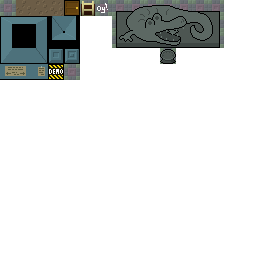
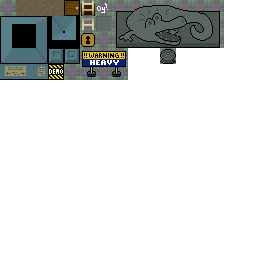
season blocks puzzle

Changed region(s): [[0.3125, 0.0625, 0.5, 0.3125]]

diff --git a/src/game/sprite/sprite_seasonblocks.c b/src/game/sprite/sprite_seasonblocks.c
@@ -1,0 +1,149 @@
+/* sprite_seasonblocks.c
+ * We're not a visible sprite; just controller for the 4 season blocks that we spawn.
+ */
+ 
+#include "game/bellacopia.h"
+
+#define ROLE_HINT 1
+#define ROLE_PUZZLE 2
+
+struct sprite_seasonblocks {
+  struct sprite hdr;
+  int role;
+  int seed; // Not really a seed; it's the actual placement of the 4 blocks.
+  int solution[9]; // LRTB, sprite rid or zero.
+  int col,row; // Position of the solution field's top left corner in plane meters. I start in the center, so this is (-1,-1) from me.
+  int solved;
+};
+
+#define SPRITE ((struct sprite_seasonblocks*)sprite)
+
+/* Cleanup.
+ */
+ 
+static void _seasonblocks_del(struct sprite *sprite) {
+}
+
+/* Spawn a block.
+ */
+ 
+static int seasonblocks_spawn(struct sprite *sprite,int subx,int suby,int rid) {
+  struct sprite *block=sprite_spawn(SPRITE->col+subx+0.5,SPRITE->row+suby+0.5,rid,0,0,0,0,0);
+  if (!block) return -1;
+  return 0;
+}
+
+/* Init.
+ */
+ 
+static int _seasonblocks_init(struct sprite *sprite) {
+  SPRITE->role=sprite->arg[0];
+  SPRITE->col=(int)sprite->x-1;
+  SPRITE->row=(int)sprite->y-1;
+  SPRITE->solved=store_get_fld(NS_fld_seasonblocks);
+  
+  /* Regardless of our role, if the puzzle isn't initialized, do that now.
+   */
+  SPRITE->seed=store_get_fld16(NS_fld16_seasonblocks_seed);
+  if (!SPRITE->seed) {
+    int range=9*8*7*6;
+    SPRITE->seed=1+rand()%range;
+    store_set_fld16(NS_fld16_seasonblocks_seed,SPRITE->seed);
+  }
+  
+  /* Expand the seed into a more digestible solution.
+   */
+  int n=SPRITE->seed-1;
+  uint8_t available[9]={0,1,2,3,4,5,6,7,8};
+  int availablec=9;
+  #define NEXT(rid) { \
+    int avp=n%availablec; \
+    n/=availablec; \
+    SPRITE->solution[available[avp]]=rid; \
+    availablec--; \
+    memmove(available+avp,available+avp+1,availablec-avp); \
+  }
+  NEXT(RID_sprite_season_winter)
+  NEXT(RID_sprite_season_spring)
+  NEXT(RID_sprite_season_summer)
+  NEXT(RID_sprite_season_autumn)
+  #undef NEXT
+  
+  /* If we're the hint, or the puzzle is already solved, spawn blocks in the solution positions.
+   */
+  if ((SPRITE->role==ROLE_HINT)||SPRITE->solved) {
+    const int *rid=SPRITE->solution;
+    int suby=0; for (;suby<3;suby++) {
+      int subx=0; for (;subx<3;subx++,rid++) {
+        if (!*rid) continue;
+        if (seasonblocks_spawn(sprite,subx,suby,*rid)<0) return -1;
+      }
+    }
+  /* Or if we're the unsolved puzzle, put the four blocks in constant OOB positions.
+   */
+  } else {
+    if (seasonblocks_spawn(sprite,-1,-1,RID_sprite_season_winter)<0) return -1;
+    if (seasonblocks_spawn(sprite, 3,-1,RID_sprite_season_spring)<0) return -1;
+    if (seasonblocks_spawn(sprite, 3, 3,RID_sprite_season_summer)<0) return -1;
+    if (seasonblocks_spawn(sprite,-1, 3,RID_sprite_season_autumn)<0) return -1;
+  }
+  
+  return 0;
+}
+
+/* Update.
+ */
+ 
+static void _seasonblocks_update(struct sprite *sprite,double elapsed) {
+  // Only need to update if we're the puzzle role and unsolved.
+  if (SPRITE->solved) return;
+  if (SPRITE->role!=ROLE_PUZZLE) return;
+  
+  // The blocks are all in "hookpull" group, which should be pretty light otherwise.
+  int matchc=0;
+  struct sprite **blockp=GRP(hookpull)->sprv;
+  int i=GRP(hookpull)->sprc;
+  for (;i-->0;blockp++) {
+    struct sprite *block=*blockp;
+    if (!block->rid) continue;
+    int qx=(int)block->x-SPRITE->col;
+    if ((qx<0)||(qx>=3)) continue; // continue, not break: We don't know yet whether this block is actually part of the puzzle.
+    int qy=(int)block->y-SPRITE->row;
+    if ((qy<0)||(qy>=3)) continue;
+    int sp=qy*3+qx;
+    if (SPRITE->solution[sp]==block->rid) {
+      matchc++;
+    } else {
+      // Something is in my bounds and it's not in the solution place. We're not solved.
+      matchc=0;
+      break;
+    }
+  }
+  
+  // If we got 4 matches, we're solved, hooray!
+  if (matchc==4) {
+    bm_sound(RID_sound_secret);
+    store_set_fld(NS_fld_seasonblocks,1);
+    g.camera.mapsdirty=1;
+    SPRITE->solved=1;
+    // They can keep moving blocks around after solving, no worries, it won't reset the solved state or anything.
+  }
+}
+
+/* Render.
+ */
+ 
+static void _seasonblocks_render(struct sprite *sprite,int x,int y) {
+}
+
+/* Type definition.
+ */
+ 
+const struct sprite_type sprite_type_seasonblocks={
+  .name="seasonblocks",
+  .objlen=sizeof(struct sprite_seasonblocks),
+  .del=_seasonblocks_del,
+  .init=_seasonblocks_init,
+  .update=_seasonblocks_update,
+  .render=_seasonblocks_render,
+};

diff --git a/src/game/shared_symbols.h b/src/game/shared_symbols.h
@@ -362,6 +362,7 @@
 #define NS_sprtype_treadlepass      48 /* (u16:fld)0 (u16:treadlec)6 */
 #define NS_sprtype_flamethrower     49 /* (u16:fld)0 (u8:offvalue_or_period_phase)0 (u8:length_and_orientation)0 ; low 2: 0..3=left,right,up,down. high 4: length-1 */
 #define NS_sprtype_trickfloor       50 /* (u32)0 */
+#define NS_sprtype_seasonblocks     51 /* (u8:role)1 (u24)0 ; 1=hint 2=puzzle */
 #define FOR_EACH_sprtype \
   _(dummy) \
   _(hero) \
@@ -402,7 +403,8 @@
   _(sokoban) \
   _(treadlepass) \
   _(flamethrower) \
-  _(trickfloor)
+  _(trickfloor) \
+  _(seasonblocks)
   
 #define NS_battle_fishing 1
 #define NS_battle_chopping 2
@@ -819,6 +821,7 @@
 #define NS_fld_dud6 235
 #define NS_fld_icedoor1 236
 #define NS_fld_escaped_labyrinth 237
+#define NS_fld_seasonblocks 238 /* Season blocks puzzle in the temple, completed. */
 
 /* "fld16" are 16 unsigned bits each.
  */
@@ -860,6 +863,7 @@
 #define NS_fld16_surveyor_b_guess 35
 #define NS_fld16_surveyor_c_guess 36
 #define NS_fld16_wishing_well 37 /* itemid */
+#define NS_fld16_seasonblocks_seed 38
 
 /* "clock" are floating-point seconds, and persist as integer ms.
  */

diff --git a/README.md b/README.md
@@ -33,36 +33,28 @@ Requires [Egg](https://github.com/aksommerville/egg2) to build.
 
 ## TODO
 
-- [x] Goblin cave isn't fully darkening anymore. ...I forgot to remove hero from `GRP(light)` when burning a flammable.
-- - That happened during a full run. Quit and retry, it darkens as expected.
-- - Use a match to burn something. It seems to stick on.
 - [ ] Gambling challenge in the casino. Choose a difficulty, implies a wager and payout, and play a random battle.
 - [ ] Maybe a warning when you leave a guild with the endorsement partially won? User wouldn't assume that it resets.
 - [ ] Might be cool to re-engage with the Princess after her quest.
 - - Definitely. Have three options: Take a walk, Play a game, or Gossip.
 - - Some subtle but noticeable indicator near her to show how many walks you've taken and games you've played. A prize when you've done them all.
-- [x] Modal blotter: Can we have the generic layer track changes and ease in and out? Then also we would want the implementations to turn off their (blotter) request during animated dismissal.
-- - ...this item has been sitting here for six months and I haven't once felt the need for it. Forget it.
 - [ ] Make something happen if you beat a guild outside the election.
 - [ ] More spells. Not sure what...
 - [ ] The Toad and the Boulder. I kind of forgot about this and its Root Devil is just sitting there in the open.
 - [ ] Game over song.
-- [x] New song during the election, maybe?
-- - ...this would be difficult, since we wouldn't want it to play outside Fractia. I don't think it's worth the trouble.
 - [ ] Add Blackjack and maybe Poker at the Casino. We already have lovely playing card graphics.
 - [ ] When the war is over, rsprites there should settle down. You can still engage, but maybe they just sit still in fixed positions? Like a zoo but fit for men.
 - [ ] Consider eliminating rsprite by zoos a la carte, one monster at a time. Leads to some strategy: "I need to get rid of this walrus!"
-- [x] Show in-progress Minimalist badge on stats vellum, to give users a hint whether they still have it.
 - [ ] Have the bus stop try a little harder, especially in tight spaces it can be annoying when it rejects.
 - [ ] I forgot Power Glove and Goodluck for NPC-triggered battles (zookeeper and siren).
 - [ ] Goblins' treasure shouldn't be the phonograph -- that place has fixed music, phonograph won't work in there.
 - [ ] Make vanishing cream last a little longer.
 - [ ] Can inventory critic give you something other than a heart container? She comes late in the game, so it tends to be your last heart container, and causes two back-to-back cutscenes.
 - - It can't be inventory, and a purse upgrade or jigpiece would have the same problem. Could do just plain gold? Or maybe she maxes all your depletables?
+- - Or maybe have the Things Story trigger when you get the last item, instead of triggering off Inventory Critic. That didn't make sense anyway.
 - [ ] Some little fanfare on reaching 100%.
 - [ ] Set imageid_default in battles where warranted.
-- [x] "Steer" means bull, not deer! Redraw the sprite.
-- - [ ] `sprite:130-buck` is available for reuse
+- [ ] `sprite:130-buck` is available for reuse; orphaned because i didn't know what "steer" means, oops.
 - [ ] Bus stop immediately after passing thru a door, you briefly see the map you came from during the transition.
 
 - Battles written but not placed.
@@ -70,23 +62,13 @@ Requires [Egg](https://github.com/aksommerville/egg2) to build.
 - Challenges for Ice Palace and other bonus zones. Underworld. Back of the temple? Goblins' cave?
 - - We can really cut loose with these and make them ridiculously hard, since they'll never be mandatory.
 - - Do be mindful of the Minimalist path, it needs to stay item-free.
-- - [x] Economy of Motion style keystroke tracker.
-- - [x] Sokoban in the real world. Include Ounce blocks that you can Hookshot, and unreachable blocks that you have to Snowglobe.
-- - - Or bits where you could either Vanishing Cream into a side channel to push, or Snowglobe.
-- - [x] Also diegetic Bomberman, same idea as Sokoban. ...already doable, use `CMD_map_flammable`.
 - - [ ] Timed flamethrowers and projectiles. Can do really fast ones to require a Stopwatch.
-- - [x] Constant flamethrower with a stompbox behind it, to require Marionette.
-- - [x] Treadle that you need a timed release remotely. Bomb or maybe Marionette or Snowglobe.
 - - [ ] Conveyor belts.
-- - [x] Something like Full Moon's trick floor, where you have to use Compass to know the path? Make it work with Divining Rod too.
 - - [ ] Somewhere a Spell Bee style side quest where you complete a dungeon, then have to go back in and clean up after yourself.
 - - [ ] An aggressive monster that wins every time so you have to use Bug Spray or Vanishing Cream.
 - - [ ] A cow or something, that approaches you when you ring the bell.
-- - [x] Secret knowledge accessible only with the telescope. This would be a great fit in the Temple, already has dead space at the edges.
-- - [x] Ice floor, that you slide until you hit the wall.
 - - [ ] Use Snowglobe to put unreachable alphabet blocks in order.
 - - [ ] Motion sensor. Has a visible spook scale. You can cross its sight laboriously by starting and stopping, but realistically need to outrun it or block it or something.
-- - [x] Six treadles that you press in order. Use Divining Rod to see the order.
 
 - Fill out maps.
 - [ ] Fractia
@@ -144,10 +126,9 @@ Requires [Egg](https://github.com/aksommerville/egg2) to build.
 - - [ ] Lots of monsters everywhere, and we can put really hard ones down here.
 - - [ ] Dark some regions.
 - - [ ] Mr and Mrs Rabbit at the surveyor challenge.
-- - [x] Dots<->Fractia door.
-- - [x] Dots<->Cheapside door.
 
 - Battle repairs.
+- [ ] armwrestling: Nerf.
 - [ ] broomrace: Get real prizes. Also don't call it "Broom Race", since that's a thing now.
 - [x] calligraphy: No fun, eliminate. ...actually! If we show the reference image always, it's pretty nice. The challenge is the etch-a-sketch controls, not the guessing-where-pixels-go.
 - [ ] cpr: Score by counting strokes and comparing their timing to their own standard deviation -- should be completely immune to audio latency.
